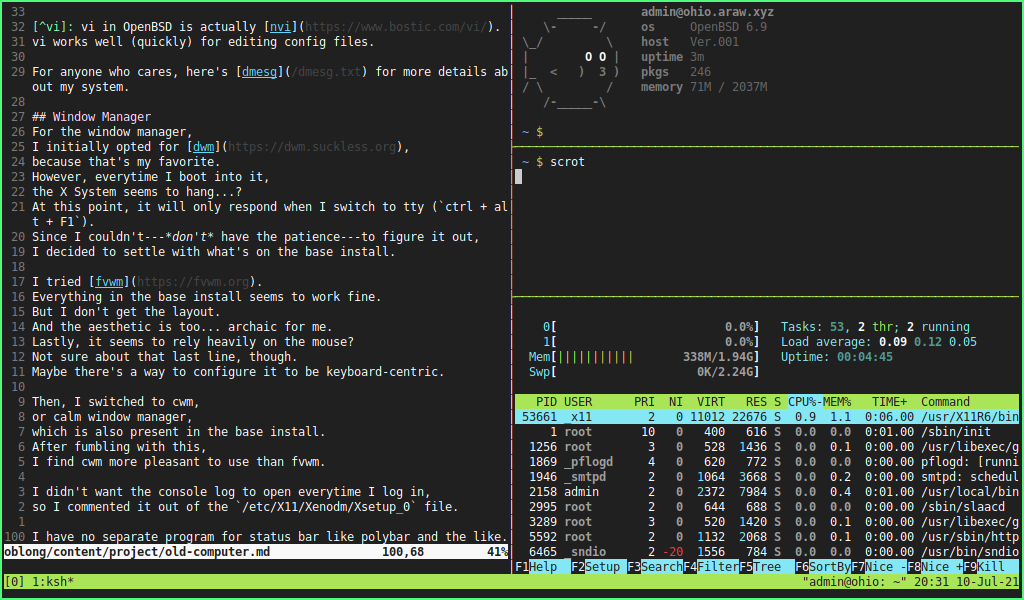
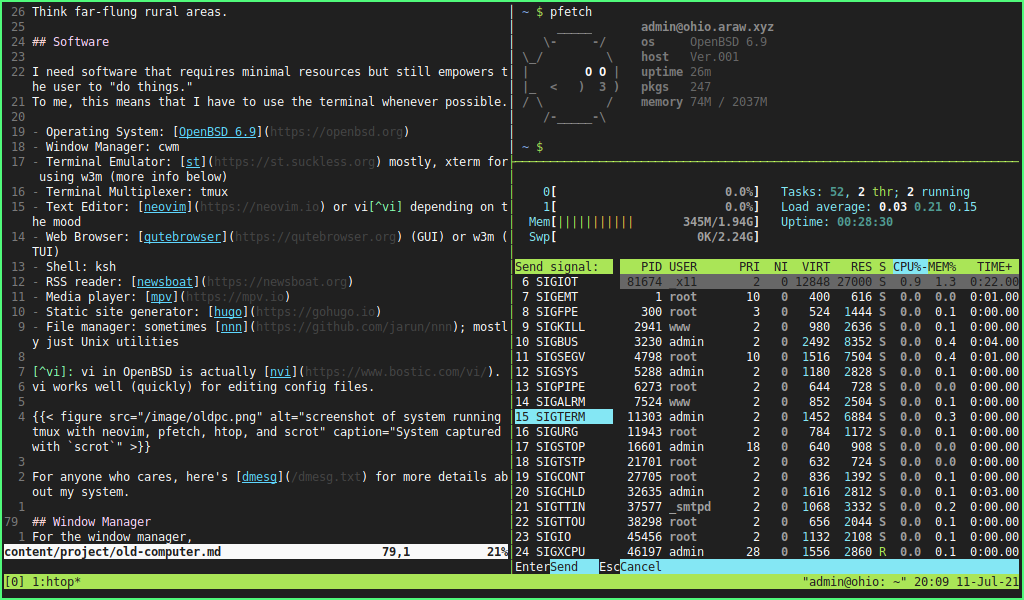
new log trese

diff --git a/old-computer/index.html b/old-computer/index.html
@@ -1,5 +1,5 @@
 <!doctype html><html lang=en><head><meta charset=utf-8><meta name=viewport content="width=device-width,initial-scale=1,shrink-to-fit=no"><meta name=generator content="Hugo 0.81.0"><link rel=stylesheet href=https://ohio.araw.xyz/css/style.css><link rel=icon href=data:><title>The Old Computer Challenge | to oblique lair</title></head><body><div class=container><main id=main><h1>The Old Computer Challenge</h1><div class=small>Last Update:
-<time datetime="Sun Jul 70 77:73:38 11110 +0800">11 Jul 2021</time></div><div><h4>Table of Contents</h4><aside class=small><nav id=TableOfContents><ul><li><a href=#status-on-going>Status: On-going</a></li><li><a href=#hardware>Hardware</a></li><li><a href=#software>Software</a></li><li><a href=#window-manager>Window Manager</a></li><li><a href=#file-manager>File Manager</a><ul><li><a href=#status-bar>Status bar</a></li></ul></li><li><a href=#watching-videos>Watching Videos</a></li><li><a href=#getting-the-latest>Getting the latest</a></li><li><a href=#blogging>Blogging</a><ul><li><a href=#accesing-github>Accesing Github</a></li></ul></li><li><a href=#smartphone>Smartphone</a></li></ul></nav></aside></div><h2 class=statusOnGoing id=status-on-going>Status: On-going</h2><p>This project is my attempt to &ldquo;make it work&rdquo; using old, un-upgraded computer.
+<time datetime="Sun Jul 70 77:79:98 11110 +0800">11 Jul 2021</time></div><div><h4>Table of Contents</h4><aside class=small><nav id=TableOfContents><ul><li><a href=#status-on-going>Status: On-going</a></li><li><a href=#hardware>Hardware</a></li><li><a href=#software>Software</a></li><li><a href=#window-manager>Window Manager</a></li><li><a href=#terminal-emulator>Terminal Emulator</a></li><li><a href=#file-manager>File Manager</a><ul><li><a href=#status-bar>Status bar</a></li></ul></li><li><a href=#web-browsers>Web Browsers</a><ul><li><a href=#w3m>w3m</a></li><li><a href=#gui>GUI</a></li></ul></li><li><a href=#watching-videos>Watching Videos</a></li><li><a href=#getting-the-latest>Getting the latest</a></li><li><a href=#blogging>Blogging</a><ul><li><a href=#accesing-github>Accesing Github</a></li></ul></li><li><a href=#smartphone>Smartphone</a></li></ul></nav></aside></div><h2 class=statusOnGoing id=status-on-going>Status: On-going</h2><p>This project is my attempt to &ldquo;make it work&rdquo; using old, un-upgraded computer.
 Over this period, I will document the good, the bad, and the ugly.
 Below isn&rsquo;t necessarily a tutorial, but personal notes.
 Whenever possible, I link the things I use to their respective online documentation.</p><p><a href=https://dataswamp.org/~solene/2021-07-07-old-computer-challenge.html>Solene&rsquo;s prompt was to use old computers for a week</a>,
@@ -13,7 +13,7 @@ whose physical parts comprise:</p><ul><li>CPU: 1.66-GHZ Intel Atom N280</li><li>
 (this is a non-issue, though; I can just use earphones as the jacks are working fine).</li></ul><p>In real life, some people may just be lucky enough to have a working computer (maybe as a donation),
 but not so much to afford to upgrade its parts.
 Think far-flung rural areas.</p><h2 id=software>Software</h2><p>I need software that requires minimal resources but still empowers the user to &ldquo;do things.&rdquo;
-To me, this means that I have to use the terminal whenever possible.</p><ul><li>Operating System: <a href=https://openbsd.org>OpenBSD 6.9</a></li><li>Window Manager: cwm</li><li>Terminal: <a href=https://st.suckless.org>st</a></li><li>Terminal Multiplexer: tmux</li><li>Text Editor: <a href=https://neovim.io>neovim</a> or vi<sup id=fnref:1><a href=#fn:1 class=footnote-ref role=doc-noteref>1</a></sup> depending on the mood</li><li>Web Browser: <a href=https://qutebrowser.org>qutebrowser</a> (GUI) or w3m (TUI)</li><li>Shell: ksh</li><li>RSS reader: <a href=https://newsboat.org>newsboat</a></li><li>Media player: <a href=https://mpv.io>mpv</a></li><li>Static site generator: <a href=https://gohugo.io>hugo</a></li><li>File manager: sometimes <a href=https://github.com/jarun/nnn>nnn</a>; mostly just Unix utilities</li></ul><figure><img src=/image/oldpc.png alt="screenshot of system running tmux with neovim, pfetch, htop, and scrot"><figcaption><p>System captured with <code>scrot</code></p></figcaption></figure><p>For anyone who cares, here&rsquo;s <a href=/dmesg.txt>dmesg</a> for more details about my system.</p><h2 id=window-manager>Window Manager</h2><p>For the window manager,
+To me, this means that I have to use the terminal whenever possible.</p><ul><li>Operating System: <a href=https://openbsd.org>OpenBSD 6.9</a></li><li>Window Manager: cwm</li><li>Terminal Emulator: <a href=https://st.suckless.org>st</a> mostly, xterm for using w3m (more info below)</li><li>Terminal Multiplexer: tmux</li><li>Text Editor: <a href=https://neovim.io>neovim</a> or vi<sup id=fnref:1><a href=#fn:1 class=footnote-ref role=doc-noteref>1</a></sup> depending on the mood</li><li>Web Browser: <a href=https://qutebrowser.org>qutebrowser</a> (GUI) or w3m (TUI)</li><li>Shell: ksh</li><li>RSS reader: <a href=https://newsboat.org>newsboat</a></li><li>Media player: <a href=https://mpv.io>mpv</a></li><li>Static site generator: <a href=https://gohugo.io>hugo</a></li><li>File manager: sometimes <a href=https://github.com/jarun/nnn>nnn</a>; mostly just Unix utilities</li></ul><figure><img src=/image/oldpc.png alt="screenshot of system running tmux with neovim, pfetch, htop"><figcaption><p>System captured with <code>scrot</code></p></figcaption></figure><p>For anyone who cares, here&rsquo;s <a href=/dmesg.txt>dmesg</a> for more details about my system.</p><h2 id=window-manager>Window Manager</h2><p>For the window manager,
 I initially opted for <a href=https://dwm.suckless.org>dwm</a>,
 because that&rsquo;s my favorite.
 However, everytime I boot into it,
@@ -25,23 +25,34 @@ Everything in the base install seems to work fine.
 But I don&rsquo;t get the layout.
 And the aesthetic is too&mldr; archaic for me.
 Lastly, it seems to rely heavily on the mouse?
-Not sure about that last line, though.
-Maybe there&rsquo;s a way to configure it to be keyboard-centric.</p><p>Then, I switched to cwm,
+There&rsquo;s probably a way to configure it be keyboard-centric.</p><p>Then, I switched to cwm,
 or calm window manager,
 which is also present in the base install.
 After fumbling with this,
 I find cwm more pleasant to use than fvwm.</p><p>I didn&rsquo;t want the console log to open everytime I log in,
-so I commented it out of the <code>/etc/X11/Xenodm/Xsetup_0</code> file.</p><h2 id=file-manager>File Manager</h2><p>I&rsquo;d like to say that I won&rsquo;t use file manager,
+so I commented it out of the <code>/etc/X11/Xenodm/Xsetup_0</code> file.</p><h2 id=terminal-emulator>Terminal Emulator</h2><p>I use st because it&rsquo;s snappier than xterm.
+st lacks scrollback feature, though, which tmux solves fortunately.
+I applied no patches for my build.</p><p>I use xterm only for when using w3m-img,
+because it properly renders images, unlike st.
+A dedicated key-binding spawns an xterm instance outside of tmux just to load w3m-img.</p><h2 id=file-manager>File Manager</h2><p>I&rsquo;d like to say that I won&rsquo;t use a file manager,
 but I installed nnn just in case.</p><pre><code># pkg_add nnn
-</code></pre><p>However, mostly I use <code>mv</code>, <code>cp</code>, <code>rm</code>, <code>cd</code>, <code>ls</code> and other Unix utilities.
-Doing so &ldquo;forces&rdquo; me to be mindful of the current file tree structure in home directory.
+</code></pre><p>However, mostly I use <code>mv</code>, <code>cp</code>, <code>rm</code>, <code>cd</code>, <code>ls</code> and other Unix utilities for moving around.
+Using them &ldquo;forces&rdquo; me to be mindful of the current file tree structure in home directory.
 It also encourages me to immediately clean up files and/or put them where they need to be.</p><p>As an effect, my system is clutter-free and simple<sup id=fnref:2><a href=#fn:2 class=footnote-ref role=doc-noteref>2</a></sup>.
 I believe the cool people call it digital minimalism.</p><h3 id=status-bar>Status bar</h3><p>I have no separate program for status bar like <a href=https://polybar.github.io>polybar</a> and the like.
 The status bar of tmux works fine displaying the date and time.</p><p>If I suspect that the internet is down,
 I can just use <code>ping</code>.
 Luckily, I can rely on my ISP uptime <em>most of the time</em>.</p><p>Since I use the headphone jack,
 I don&rsquo;t need a visual representation of the volume;
-the actual sound coming out of the earphones that I use should be enough an indicator.</p><h2 id=watching-videos>Watching Videos</h2><p>To watch videos from the channels that I subscribe to on YouTube,
+the actual sound coming out of the earphones that I use should be enough an indicator.</p><h2 id=web-browsers>Web Browsers</h2><h3 id=w3m>w3m</h3><p>Text-based browsers would help me connect to the internet on limited hardware.
+They are less resource intensive, not like the GUI ones, and that&rsquo;s expected.</p><p>However, it&rsquo;s only natural for my human eyes to want to look at pictures from time to time,
+especially if it&rsquo;s relevant to the content.</p><p>The w3m in base install had to be replaced with another w3m version that supports image<sup id=fnref:3><a href=#fn:3 class=footnote-ref role=doc-noteref>3</a></sup>.
+Such version is available in the official packages.</p><pre><code># pkg_add w3m-*-image
+</code></pre><p>Like I said, using w3m-img on xterm works as expected.
+Now, I won&rsquo;t miss out on photos on blogs!</p><p>I use the lightest version of DuckDuckGo (that I know) as my search engine:
+<code>ddg.gg/lite</code></p><h3 id=gui>GUI</h3><p>I can tolerate the slow loading times of Firefox,
+but often, it&rsquo;s just too heavy on the resources.</p><p>qutebrowser is a more lightweight option, and runs okay.
+I prefer using this one over Firefox.</p><h2 id=watching-videos>Watching Videos</h2><p>To watch videos from the channels that I subscribe to on YouTube,
 I use mpv, youtube-dl, and <a href=https://github.com/pystardust/ytfzf>ytfzf</a>.</p><p>Download mpv, a lightweight yet extensible media player:</p><pre><code># pkg_add mpv
 </code></pre><p>There&rsquo;s a youtube-dl ported to OpenBSD&rsquo;s official packages,
 but it&rsquo;s outdated.
@@ -59,7 +70,7 @@ and to not have to open a browser.</p><h2 id=blogging>Blogging</h2><p>How else c
 It&rsquo;s officially ported to OpenBSD, so getting it is as easy as:</p><pre><code># pkg_add hugo
 </code></pre><h3 id=accesing-github>Accesing Github</h3><p>At the time of writing,
 this site and its source code is hosted on Github.
-I wanted to access Github<sup id=fnref:3><a href=#fn:3 class=footnote-ref role=doc-noteref>3</a></sup> through their <a href=cli.github.com>gh-cli</a>,
+I wanted to access Github<sup id=fnref:4><a href=#fn:4 class=footnote-ref role=doc-noteref>4</a></sup> through their <a href=cli.github.com>gh-cli</a>,
 because I believe it&rsquo;s less resource intensive than opening a browser every time.</p><p>The only option for me is to build it from source.</p><p>First, I need golang and gmake,
 the latter for compiling,
 because <code>make == clang</code> in base install,
@@ -69,4 +80,5 @@ except do use <code>gmake</code> when building and installing, like so:</p><pre>
 </code></pre><figure><img src=/image/gh-cli.png alt="screenshot of tmux running gmake, htop, and scrot"><figcaption><p>Compiling time compelled me to make lunch.</p></figcaption></figure><p>Lastly, I followed the prompts after typing:</p><pre><code>$ gh auth login
 </code></pre><h2 id=smartphone>Smartphone</h2><p>I contact my friends and family through <a href=https://signal.org>Signal Messenger</a>,
 so that means I must keep on using my smartphone.</p><section class=footnotes role=doc-endnotes><hr><ol><li id=fn:1 role=doc-endnote><p>vi in OpenBSD is actually <a href=https://www.bostic.com/vi/>nvi</a>.
-vi works well (quickly) for editing config files. <a href=#fnref:1 class=footnote-backref role=doc-backlink>&#8617;&#xfe0e;</a></p></li><li id=fn:2 role=doc-endnote><p>Of course, this is purely a subjective assessment of my system. <a href=#fnref:2 class=footnote-backref role=doc-backlink>&#8617;&#xfe0e;</a></p></li><li id=fn:3 role=doc-endnote><p>I also use Github for other non-blogging projects, so doing this is vital. <a href=#fnref:3 class=footnote-backref role=doc-backlink>&#8617;&#xfe0e;</a></p></li></ol></section><br><br><br><p>Comments, suggestions? Email me at <code>ohio&#xFF20;araw&#8228;xyz</code><br>Helpful? Consider <a href=/support>supporting me</a>.<br></p><p>Back to 🏠<a href=/>Index</a> :: 📋<a href=/log>Log</a> :: 📚<a href=/project>Projects</a></p></main></div></body><footer class=small><hr>Everything is licensed under <a href=http://creativecommons.org/licenses/by-sa/4.0/>CC BY-SA 4.0</a><br><a href=https://250kb.club>Member of 250KB Club</a><br>This site is private 😏 No cookies, scripts, trackers, and analytics.<br>Read the <a href=/disclaimer/>disclaimer</a>.</footer></html>
+vi works well (quickly) for editing config files. <a href=#fnref:1 class=footnote-backref role=doc-backlink>&#8617;&#xfe0e;</a></p></li><li id=fn:2 role=doc-endnote><p>Of course, this is purely a subjective assessment of my system. <a href=#fnref:2 class=footnote-backref role=doc-backlink>&#8617;&#xfe0e;</a></p></li><li id=fn:3 role=doc-endnote><p>According to <code>pkg_add</code>, w3m-img is in direct conflict with w3m (in base install).
+I installed the former after removing the latter. <a href=#fnref:3 class=footnote-backref role=doc-backlink>&#8617;&#xfe0e;</a></p></li><li id=fn:4 role=doc-endnote><p>I also use Github for other non-blogging projects, so doing this is vital. <a href=#fnref:4 class=footnote-backref role=doc-backlink>&#8617;&#xfe0e;</a></p></li></ol></section><br><br><br><p>Comments, suggestions? Email me at <code>ohio&#xFF20;araw&#8228;xyz</code><br>Helpful? Consider <a href=/support>supporting me</a>.<br></p><p>Back to 🏠<a href=/>Index</a> :: 📋<a href=/log>Log</a> :: 📚<a href=/project>Projects</a></p></main></div></body><footer class=small><hr>Everything is licensed under <a href=http://creativecommons.org/licenses/by-sa/4.0/>CC BY-SA 4.0</a><br><a href=https://250kb.club>Member of 250KB Club</a><br>This site is private 😏 No cookies, scripts, trackers, and analytics.<br>Read the <a href=/disclaimer/>disclaimer</a>.</footer></html>

diff --git a/project/index.html b/project/index.html
@@ -1,1 +1,1 @@
-<!doctype html><html lang=en><head><meta charset=utf-8><meta name=viewport content="width=device-width,initial-scale=1,shrink-to-fit=no"><meta name=generator content="Hugo 0.81.0"><link rel=stylesheet href=https://ohio.araw.xyz/css/style.css><link rel=icon href=data:><title>Projects | to oblique lair</title></head><body><div class=container><main id=main><h1>Projects</h1><p>&#8594; <a href=/bujo/>My Bullet Journal Method</a></p><p>&#8594; <a href=/old-computer/>The Old Computer Challenge</a></p><p>&#8594; <a href=/imbentori/>Imbentori: A Tumblr Blog</a></p><p>&#8594; <a href=/server/>Own Web Server</a></p><p>&#8594; <a href=/site/>This Site: Colophon</a></p><p>&#8594; <a href=/alwayscarry/>Always Carry Website</a></p><p>&#8594; <a href=/encode/>Encoding: From Hardcopy to Softcopy</a></p><p>&#8594; <a href=/mercipod/>iPod Classic Hard Drive Upgrade</a></p><br><br><p>Back to 🏠<a href=/>Index</a> :: 📋<a href=/log>Log</a></p></main></div></body><footer class=small><hr>Everything is licensed under <a href=http://creativecommons.org/licenses/by-sa/4.0/>CC BY-SA 4.0</a><br><a href=https://250kb.club>Member of 250KB Club</a><br>This site is private 😏 No cookies, scripts, trackers, and analytics.<br>Read the <a href=/disclaimer/>disclaimer</a>.</footer></html>
+<!doctype html><html lang=en><head><meta charset=utf-8><meta name=viewport content="width=device-width,initial-scale=1,shrink-to-fit=no"><meta name=generator content="Hugo 0.81.0"><link rel=stylesheet href=https://ohio.araw.xyz/css/style.css><link rel=icon href=data:><title>Projects | to oblique lair</title></head><body><div class=container><main id=main><h1>Projects</h1><p>&#8594; <a href=/old-computer/>The Old Computer Challenge</a></p><p>&#8594; <a href=/bujo/>My Bullet Journal Method</a></p><p>&#8594; <a href=/imbentori/>Imbentori: A Tumblr Blog</a></p><p>&#8594; <a href=/server/>Own Web Server</a></p><p>&#8594; <a href=/site/>This Site: Colophon</a></p><p>&#8594; <a href=/alwayscarry/>Always Carry Website</a></p><p>&#8594; <a href=/encode/>Encoding: From Hardcopy to Softcopy</a></p><p>&#8594; <a href=/mercipod/>iPod Classic Hard Drive Upgrade</a></p><br><br><p>Back to 🏠<a href=/>Index</a> :: 📋<a href=/log>Log</a></p></main></div></body><footer class=small><hr>Everything is licensed under <a href=http://creativecommons.org/licenses/by-sa/4.0/>CC BY-SA 4.0</a><br><a href=https://250kb.club>Member of 250KB Club</a><br>This site is private 😏 No cookies, scripts, trackers, and analytics.<br>Read the <a href=/disclaimer/>disclaimer</a>.</footer></html>
